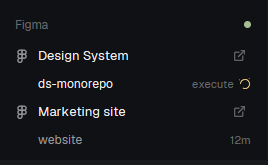
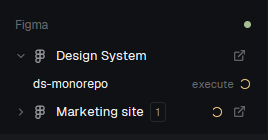
feat(figma-bridge): fold a file's agents from its row
Clicking a file row that has agents hides or shows them, as a group
heading does in the agents list. The row gets a chevron; folded, it
shows the agent count and a spinner while one of them is calling
Figma. Folded file keys are kept in localStorage.

The demo props take `folded` to start sample files folded; the
preview shows both states.

Claude-Session: https://claude.ai/code/session_017X7WkgevbvVpH9z9Ufia18

diff --git a/figma-bridge/mods/figma-bridge/main.js b/figma-bridge/mods/figma-bridge/main.js
@@ -1,10 +1,12 @@
 // A sidebar section listing the Figma files connected to the figma-console-mcp
 // bridge (its Desktop Bridge plugin), and under each file the agent that last
 // worked on it: spinning while it is calling Figma, click to go to its terminal.
+// A file's row folds its agents away, as a group heading in the agents list does.
 // The dot in the heading is the bridge light: green with a file connected,
 // yellow with a bridge running but no file, grey with no bridge.
 // Everything comes from probe.cjs, run with node every few seconds while shown.
-// props { demo: true } draws sample rows without running anything.
+// props { demo: true } draws sample rows without running anything; with
+// { folded: ["b"] } the second sample file starts folded.
 
 import { View, div, svg, image } from "gpui-kit";
 import { v_flex, h_flex } from "gpui-base";
@@ -20,7 +22,7 @@ const DEMO = {
   connected: 2, unnamed: 0, bridges: [{ up: true }],
   files: [
     { key: "a", name: "Design System", page: "Button", url: "https://www.figma.com", agents: [{ session: "1", name: "ds-monorepo", tool: "figma_execute", at: Date.now(), calling: true, demo: "ds-monorepo" }] },
-    { key: "b", name: "Marketing site", page: "Home", url: "https://www.figma.com", agents: [{ session: "2", name: "website", tool: "figma_get_status", at: Date.now() - 12 * 60000, calling: false, demo: "website" }] },
+    { key: "b", name: "Marketing site", page: "Home", url: "https://www.figma.com", agents: [{ session: "2", name: "website", tool: "figma_get_status", at: Date.now(), calling: true, demo: "website" }] },
   ],
 };
 
@@ -62,7 +64,8 @@ export default class FigmaBridge extends View {
     this.demo = props()?.demo === true;
     this.data = this.demo ? DEMO : null;
     this.error = null;
-    if (this.demo) return;
+    try { this.folded = new Set(JSON.parse(localStorage.getItem("folded") ?? "[]")); } catch { this.folded = new Set(); }
+    if (this.demo) { this.folded = new Set(props().folded ?? []); return; }
     cx.timer.every(EVERY, (cx) => { if (!this.loading && (block()?.shown ?? true)) this.poll(cx); });
     this.poll(cx);
   }
@@ -105,11 +108,25 @@ export default class FigmaBridge extends View {
       .child(div().text_size(11).text_color(t.dim).child(body));
   }
 
-  fileRow(f, t) {
-    return h_flex().id(`f-${f.key}`).h(FILE).flex_none().px(8).gap(9).items_center().rounded(8)
+  toggle(key, cx) {
+    if (!this.folded.delete(key)) this.folded.add(key);
+    localStorage.setItem("folded", JSON.stringify([...this.folded]));
+    cx.notify();
+  }
+
+  // Clicking the row folds its agents; folded, it says how many and whether one is at work.
+  fileRow(f, now, t) {
+    const n = f.agents.length, folded = n > 0 && this.folded.has(f.key);
+    const busy = folded && f.agents.some((a) => a.calling || now - a.at < ACTIVE);
+    return h_flex().id(`f-${f.key}`).h(FILE).flex_none().px(8).gap(6).items_center().rounded(8)
       .hover((s) => s.bg(t.hover))
+      .when(n > 0, (el) => el.cursor_pointer().on_click((_e, cx) => this.toggle(f.key, cx)))
+      .child(n > 0 ? svg(ICON(folded ? "chevron-right" : "chevron-down")).size(12).flex_none().text_color(t.dim) : div().w(12).flex_none())
       .child(svg(ICON("figma")).size(14).flex_none().text_color(t.muted))
-      .child(div().id(`n-${f.key}`).flex_1().min_w(0).truncate().tooltip(clean(f.page) ? `${f.name ?? f.key} · ${clean(f.page)}` : f.name ?? f.key).child(f.name ?? "Untitled"))
+      .child(div().id(`n-${f.key}`).ml(3).min_w(0).truncate().tooltip(clean(f.page) ? `${f.name ?? f.key} · ${clean(f.page)}` : f.name ?? f.key).child(f.name ?? "Untitled"))
+      .when(folded, (el) => el.child(div().flex_none().px(5).py(1).rounded(4).border_1().border_color(t.border).text_size(10).text_color(t.muted).child(String(n))))
+      .child(div().flex_1())
+      .when(busy, (el) => el.child(svg(ICON("spinner")).size(12).flex_none().text_color(t.working ?? t.ansi4).spin(900)))
       .child(
         div().id(`o-${f.key}`).size(22).flex().flex_none().items_center().justify_center().rounded(6).cursor_pointer().text_color(t.dim)
           .tooltip("Open in browser").accessibility_label("Open in browser")
@@ -124,7 +141,7 @@ export default class FigmaBridge extends View {
     const active = a.calling || now - a.at < ACTIVE;
     const name = a.demo ?? g?.space_name ?? a.name ?? "Agent", tab = g?.tab_name || g?.title || "";
     const pic = g?.program?.icon ? (g.program.tint ? svg(g.program.icon).size(13).flex_none().text_color(t.muted) : image(g.program.icon).w(13).h(13).flex_none()) : null;
-    return h_flex().id(`a-${f.key}-${a.session}`).h(AGENT).flex_none().pl(31).pr(8).gap(7).items_center().rounded(8).text_size(12)
+    return h_flex().id(`a-${f.key}-${a.session}`).h(AGENT).flex_none().pl(26).pr(8).gap(7).items_center().rounded(8).text_size(12)
       .text_color(active ? t.foreground : t.muted)
       .when(Boolean(g?.focused), (el) => el.bg(t.selected))
       .when(Boolean(g), (el) => el.cursor_pointer().hover((s) => s.bg(t.hover)).on_click(() => run("pane.focus", { pane: g.pane })))
@@ -150,8 +167,8 @@ export default class FigmaBridge extends View {
     else if (d && !d.connected) add(this.note("No file connected", "Run the Desktop Bridge plugin in a Figma file.", t), NOTE);
     else if (d) {
       for (const f of d.files) {
-        add(this.fileRow(f, t), FILE);
-        for (const a of f.agents) add(this.agentRow(f, a, now, t), AGENT);
+        add(this.fileRow(f, now, t), FILE);
+        if (!this.folded.has(f.key)) for (const a of f.agents) add(this.agentRow(f, a, now, t), AGENT);
       }
       if (d.unnamed) add(
         h_flex().id("unnamed").h(FILE).flex_none().px(8).gap(9).items_center().text_color(t.dim)

diff --git a/figma-bridge/RECIPE.md b/figma-bridge/RECIPE.md
@@ -10,9 +10,9 @@ A section that fills its block: `chrome` background, 1px `border` above, text 13
 
 **Heading**, 41px (14px top, 5px bottom, 16px side padding): "Figma" in 11.5px medium `dim`, and at the right a 7px dot, the light: `ansi2` when at least one file is connected, `ansi3` when a bridge answers but no file is connected, `dim` when no bridge answers, `ansi1` on an error. Its tooltip says which.
 
-**File row**, 30px, 8px side padding, radius 8, `hover` on hover: a 14px Figma icon in `muted`; the file name, truncated (tooltip: name and current page); a 22px button with a 13px external-link icon in `dim` (`selected` background and `foreground` on hover), tooltip "Open in browser".
+**File row**, 30px, 8px side padding, 6px gaps, radius 8, `hover` on hover: a 12px chevron in `dim`, down when open and right when folded (a 12px blank for a file with no agent); a 14px Figma icon in `muted`; the file name, truncated (tooltip: name and current page); when folded, the number of its agents in a 10px `muted` badge with a 1px `border`, and at the right a 12px `working` spinner if one of them is active; a 22px button with a 13px external-link icon in `dim` (`selected` background and `foreground` on hover), tooltip "Open in browser".
 
-**Agent row**, under its file, 26px, 31px left and 8px right padding, radius 8, 12px text: the agent's program icon (13px), its space name (at most 110px), its tab name in 11px `dim` taking the rest, then:
+**Agent row**, under its open file, 26px, 26px left and 8px right padding, radius 8, 12px text: the agent's program icon (13px), its space name (at most 110px), its tab name in 11px `dim` taking the rest, then:
 
 - while active: the tool it last ran without its `figma_` prefix and with spaces ("execute", "get status") in 11px `dim`, and a 12px spinner in `working` turning once per 900 ms; the row's text is `foreground`;
 - otherwise: the time since its last Figma call (`now`, `5m`, `3h`, `2d`) in 11px `dim`; the row's text is `muted`.
@@ -27,6 +27,7 @@ The row of the focused agent is `selected`. A session that is not in a Herdr ter
 
 - An agent is active while one of its figma-console calls has no answer yet, and for 45 s after its last call or answer.
 - A file lists the sessions whose most recent figma-console call targeted it: the call's `fileKey` or Figma URL, else the bridge's active file as last reported to that session.
+- Clicking a file row that has agents folds or unfolds them. Folded files are kept in `localStorage` by file key.
 - Clicking an agent row focuses that agent's pane. Clicking a file's button opens `https://www.figma.com/file/<key>` in the system browser.
 - It reloads every 3 s while its layout block is shown; a hidden block runs nothing.
 - The block resizes itself to its content with `layout.resize`, up to 300px, then scrolls.
@@ -34,8 +35,8 @@ The row of the focused agent is `selected`. A session that is not in a Herdr ter
 
 ## Built from
 
-- `mods/figma-bridge/`: `main.js`, `probe.cjs`, `mod.json` `{ "place": "none" }`, icons `figma`, `external`, `spinner` (drawn after Lucide) and `LICENSE-lucide.txt`.
-- `main.js`: one `View`. `herdr` functions: `agents`, `panes`, `terminals`, `exec`, `theme`, `layout`, `props`, `appHome`, `run`. Commands: `pane.focus {pane}`, `layout.resize {id, px}`. `cx.open_url`, `cx.timer.every`. It runs `node <appHome>/mods/figma-bridge/probe.cjs` (20 s timeout) and draws its JSON. `props { demo: true }` draws two sample files at 268px wide and runs nothing.
+- `mods/figma-bridge/`: `main.js`, `probe.cjs`, `mod.json` `{ "place": "none" }`, icons `figma`, `external`, `spinner`, `chevron-down`, `chevron-right` (drawn after Lucide) and `LICENSE-lucide.txt`.
+- `main.js`: one `View`. `herdr` functions: `agents`, `panes`, `terminals`, `exec`, `theme`, `layout`, `props`, `appHome`, `run`. Commands: `pane.focus {pane}`, `layout.resize {id, px}`. `cx.open_url`, `cx.timer.every`. It runs `node <appHome>/mods/figma-bridge/probe.cjs` (20 s timeout) and draws its JSON. `props { demo: true }` draws two sample files at 268px wide and runs nothing; `folded: ["b"]` starts the second one folded.
 - `probe.cjs` (CommonJS, Node 18+, no dependencies) prints `{ now, connected, unnamed, files: [{ key, name, page, url, agents: [{ session, name, cwd, ancestors, tool, at, calling }] }], bridges: [{ port, up, version, connected, session, ancestors }] }`:
   1. Bridges: every `figma-console-mcp-<port>.json` in `os.tmpdir()` whose `pid` is alive; `GET http://localhost:<port>/health` (1.5 s) gives `connectedClients`. `connected` is the largest of them: the plugin connects each file to every bridge.
   2. Ancestors of each bridge's pid from the process table (`Get-CimInstance Win32_Process` through PowerShell on Windows, `ps -A -o pid=,ppid=` elsewhere), cached per bridge pid and start time.
@@ -72,4 +73,5 @@ Without a layout change: `herdr-app do pane.split '{"direction":"right","mod":"f
 - `node probe.cjs` prints JSON in well under a second on its second run.
 - With no agent running the section says "No bridge running" and the light is grey; with an agent that has figma-console and no plugin open, "No file connected" and a yellow light.
 - With the Desktop Bridge plugin open in a file and after an agent's `figma_get_status`, the file's name shows with that agent under it, the light is green, and the agent row spins while it calls Figma.
+- Clicking the file row hides its agent rows and shows their count, and a spinner while one is calling Figma; clicking again shows them; the choice survives a restart.
 - Clicking the agent row focuses its terminal; the file's button opens the file in the browser.

diff --git a/figma-bridge/README.md b/figma-bridge/README.md
@@ -8,7 +8,7 @@ A sidebar section for the [Herdr](https://herdr.dev) desktop app that shows whic
 
 - **A bridge light** in the section's heading: green with a file connected, yellow with a bridge running but no file, grey with no bridge.
 - **The connected Figma files**, each with a button that opens it in the browser.
-- **The agent on each file**: the Herdr agent whose session last called Figma on that file. While it is calling Figma it shows the tool it is running and a spinner; afterwards, how long ago. Click it to go to that agent's terminal.
+- **The agent on each file**: the Herdr agent whose session last called Figma on that file. While it is calling Figma it shows the tool it is running and a spinner; afterwards, how long ago. Click it to go to that agent's terminal. Click a file to fold its agents away; folded, it shows how many there are and still spins while one is at work.
 
 It is read-only. It never talks to Figma and never sends anything to the bridge except a health request.
 
